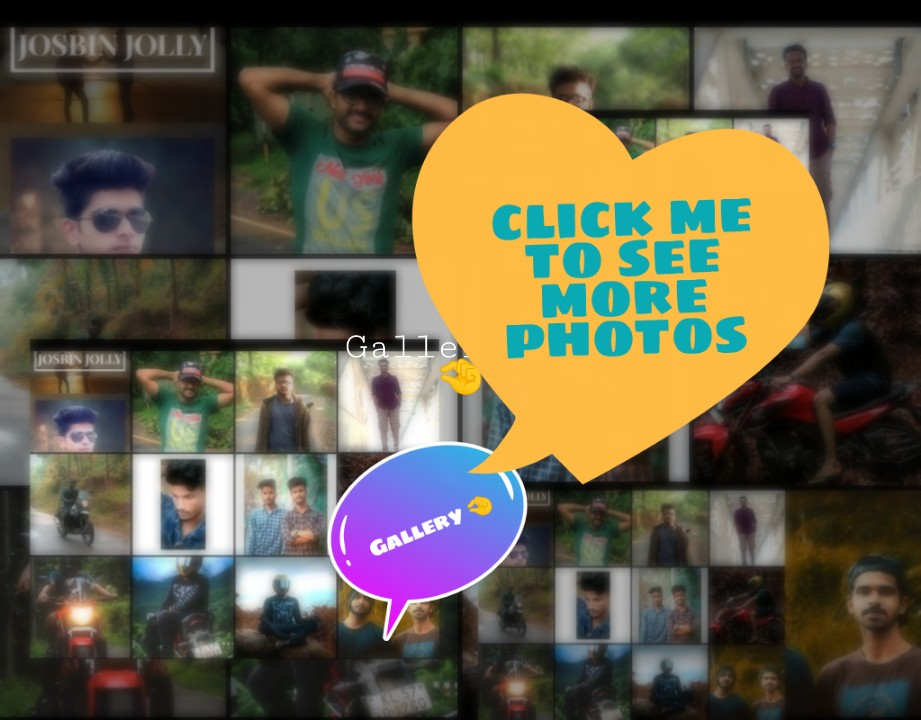
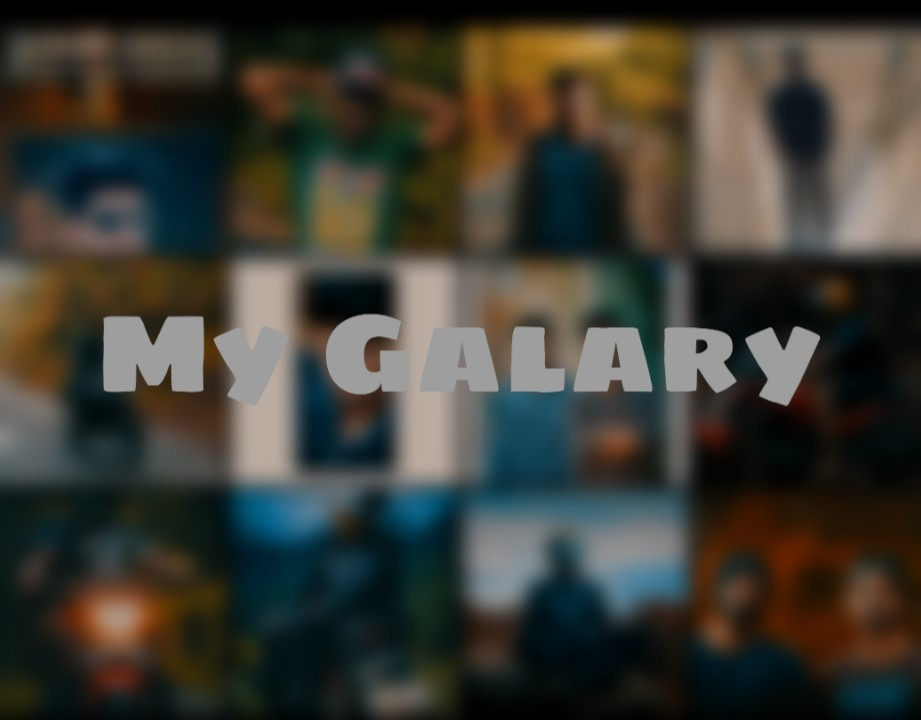
galary fif

diff --git a/index.html b/index.html
@@ -149,10 +149,13 @@
             </div>
           </div>
         </div>
-        <div>
+        <div class="card-img">
           <a href="galary.html">
-            <img src="assets/img/gallery.jpg" alt="" class="card-img rad">
+            <img src="assets/img/click.gif" alt="" class="card-img rad">
           </a>
+          <div>
+            <img class="card-img" src="/assets/img/gallery.jpg" alt="">
+          </div>
         </div>
       </div>
       <div class="container-fluid recent fh5co-portfolio" id="portfolio">
